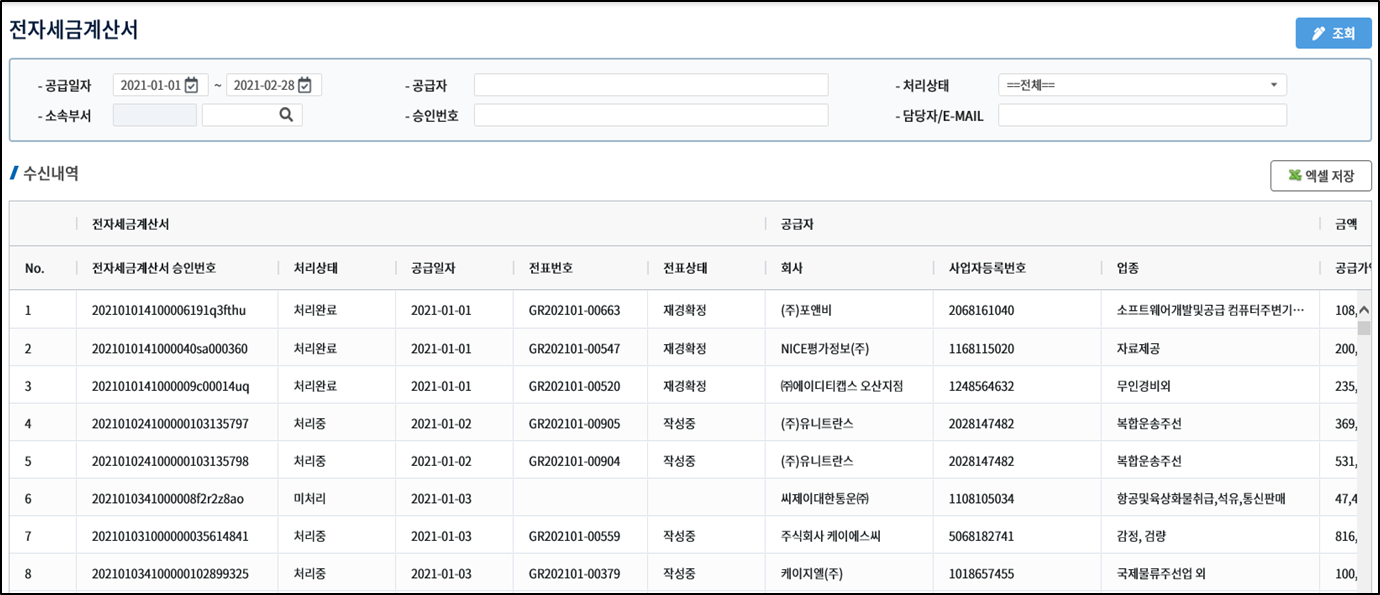
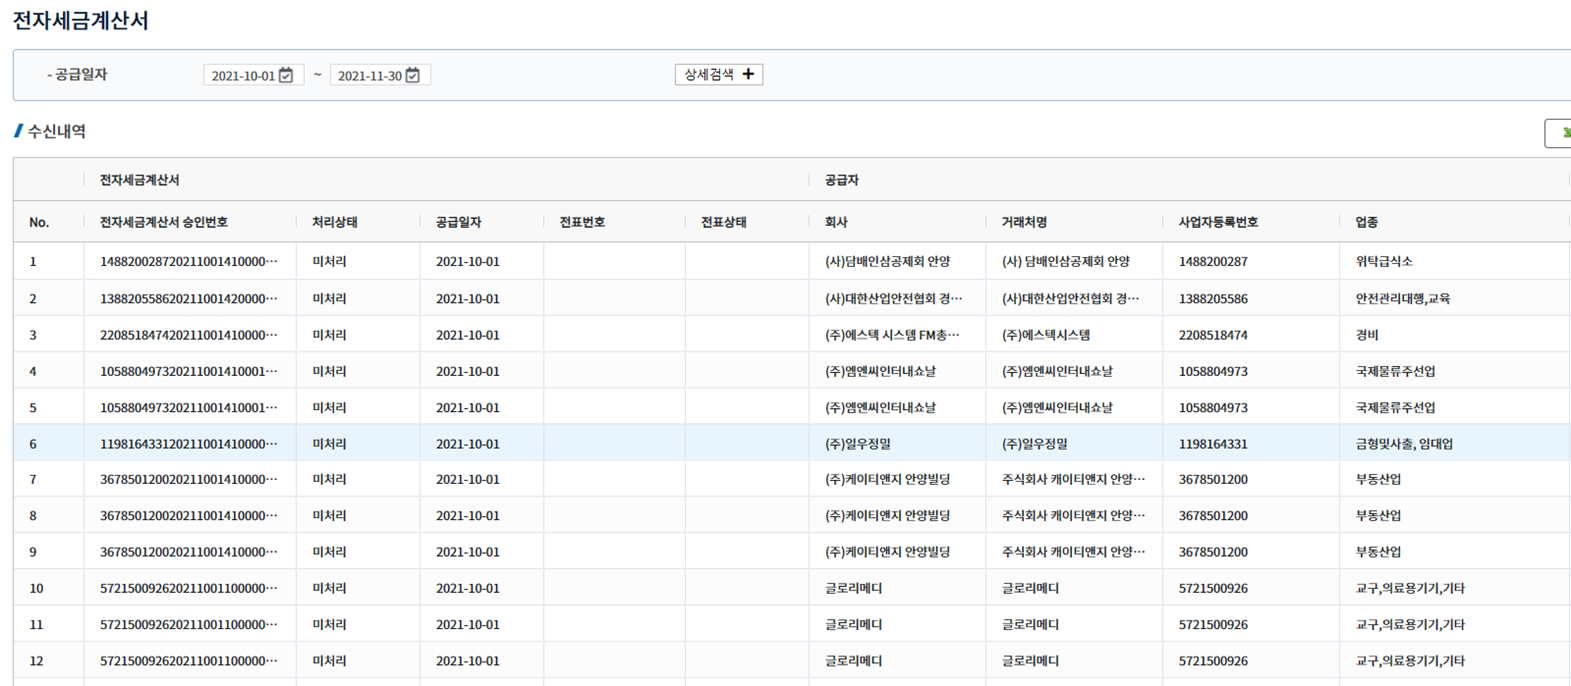
2022.3.28 유니스코 전자전표/알피니언 전자전표/다이아 mes 이미지 추가

diff --git a/src/portfolio.js b/src/portfolio.js
@@ -216,6 +216,44 @@ const bigProjects = {
         }
       ],
       tags:["java", "spring-boot", "spring-data-jpa", "mariadb", "vue"],
+      pictures: [
+        {
+          img: require("./assets/images/portfolio/ijap-eacct/img.png"),
+          title: "메인화면"
+        },
+        {
+          img: require("./assets/images/portfolio/ijap-eacct/img_1.png"),
+          title: "개인비용 신청서 작성"
+        },
+        {
+          img: require("./assets/images/portfolio/ijap-eacct/img_2.png"),
+          title: "전자세금계산서 - 전자세금계산서 확인"
+        },
+        {
+          img: require("./assets/images/portfolio/ijap-eacct/img_3.png"),
+          title: "전자세금계산서 - 전자세금계산서 전표 작성"
+        },
+        {
+          img: require("./assets/images/portfolio/ijap-eacct/img_6.png"),
+          title: "기초예산 등록"
+        },
+        {
+          img: require("./assets/images/portfolio/ijap-eacct/img_4.png"),
+          title: "예산신청서"
+        },
+        {
+          img: require("./assets/images/portfolio/ijap-eacct/img_7.png"),
+          title: "부서별 예산/실적내역"
+        },
+        {
+          img: require("./assets/images/portfolio/ijap-eacct/img_8.png"),
+          title: "전표관리 - 전표내역조회(회계팀용)"
+        },
+        {
+          img: require("./assets/images/portfolio/ijap-eacct/img_8.png"),
+          title: "전표관리 - 전표반려/검인/확정(회계팀용)"
+        },
+      ]
     },
     {
       image: "",
@@ -248,24 +286,40 @@ const bigProjects = {
       tags:["java", "spring-boot", "spring-data-jpa", "mariadb"],
       pictures: [
         {
-          img: require("./assets/images/portfolio/ijap-eacct/img.png"),
+          img: require("./assets/images/portfolio/ijun-eacct/img.png"),
           title: "메인화면"
         },
         {
-          img: require("./assets/images/portfolio/ijap-eacct/img_1.png"),
+          img: require("./assets/images/portfolio/ijun-eacct/img_1.png"),
           title: "개인비용 신청서 작성"
         },
         {
-          img: require("./assets/images/portfolio/ijap-eacct/img_2.png"),
-          title: "전자세금계산서 조회"
+          img: require("./assets/images/portfolio/ijun-eacct/img_2.png"),
+          title: "전자세금계산서 - 전자세금계산서 확인"
         },
         {
-          img: require("./assets/images/portfolio/ijap-eacct/img_3.png"),
+          img: require("./assets/images/portfolio/ijun-eacct/img_5.png"),
+          title: "전자세금계산서 - 전자세금계산서 전표 작성"
+        },
+        {
+          img: require("./assets/images/portfolio/ijun-eacct/img_6.png"),
+          title: "수기세금계산서 작성"
+        },
+        {
+          img: require("./assets/images/portfolio/ijun-eacct/img_7.png"),
+          title: "법인카드 분할전표 - 법인카드 내역"
+        },
+        {
+          img: require("./assets/images/portfolio/ijun-eacct/img_8.png"),
+          title: "법인카드 분할전표 - 작성(법인카드 비용을 다수 부서에서 비용 분할하는 화면)"
+        },
+        {
+          img: require("./assets/images/portfolio/ijun-eacct/img_3.png"),
           title: "결재 상신"
         },
         {
-          img: require("./assets/images/portfolio/ijap-eacct/img_4.png"),
-          title: "전자결재-결재할 문서"
+          img: require("./assets/images/portfolio/ijun-eacct/img_4.png"),
+          title: "결재 상세"
         },
       ]
     },
@@ -279,7 +333,36 @@ const bigProjects = {
         //  you can add extra buttons here.
       ],
       tags:["C++", "oracle", "C#"],
-      pictures:[]
+      pictures:[
+        {
+          img: require("./assets/images/portfolio/ijda-mes/img.png"),
+          title: "설비 수리 정보 등록"
+        },
+        {
+          img: require("./assets/images/portfolio/ijda-mes/img_1.png"),
+          title: "금형 입고 등록"
+        },
+        {
+          img: require("./assets/images/portfolio/ijda-mes/img_2.png"),
+          title: "금형 툴 이벤트"
+        },
+        {
+          img: require("./assets/images/portfolio/ijda-mes/img_3.png"),
+          title: "금형 폐기 요청/확정"
+        },
+        {
+          img: require("./assets/images/portfolio/ijda-mes/img_4.png"),
+          title: "작업자 관리"
+        },
+        {
+          img: require("./assets/images/portfolio/ijda-mes/img_5.png"),
+          title: "작업자 등록"
+        },
+        {
+          img: require("./assets/images/portfolio/ijda-mes/img_pda.png"),
+          title: "이동 지시 확정(PDA화면)"
+        },
+      ]
     },
     {
       image: "",
@@ -299,8 +382,8 @@ const bigProjects = {
         //  you can add extra buttons here.
       ],
       tags:["java", "spring-boot", "mybatis", "mariadb", "react"],
-      pictures: [
-        // {
+      // pictures: [
+      //   // {
         //   img: require("./assets/images/portfolio/img_1.png"),
         //   title: "로그인 화면"
         // },
@@ -316,7 +399,7 @@ const bigProjects = {
         //   img: require("./assets/images/portfolio/img_4.png"),
         //   title: "스터디 모집글 상세보기"
         // },
-      ]
+      // ]
     },
     {
       image: "",
